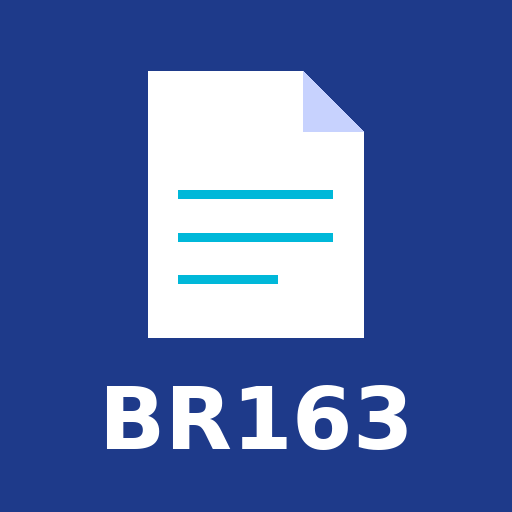
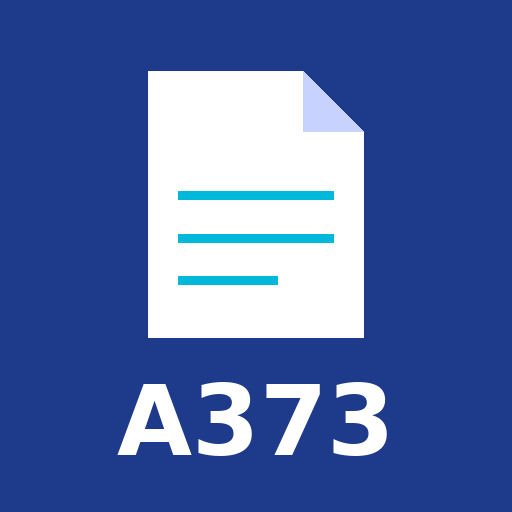
Add files via upload

Changed region(s): [[0.1875, 0.7188, 0.8125, 0.9062], [0.3438, 0.5312, 0.5312, 0.5625]]

diff --git a/sw.js b/sw.js
@@ -1,8 +1,8 @@
 // Service worker — Consulta de Documentos BR163/MS
 // Mantém uma cópia do site e da lista para uso sem internet.
 // Sempre tenta a internet primeiro; sem conexão, usa a cópia guardada.
-const VERSAO = 'projetos-v2-2026-11-13';
-const ARQUIVOS_BASE = ['./', './index.html', './documentos.json', './manifest.json', './Aterpa.png', './icon-192.png', './icon-512.png'];
+const VERSAO = 'projetos-v2-2026-11-13b';
+const ARQUIVOS_BASE = ['./', './index.html', './documentos.json', './manifest.json', './Aterpa.png', './icon-192.png', './icon-512.png', './icon-maskable-512.png'];
 const FONTES = ['fonts.googleapis.com', 'fonts.gstatic.com'];
 
 self.addEventListener('install', event => {

diff --git a/index.html b/index.html
@@ -6,7 +6,7 @@
 <meta name="theme-color" content="#ffffff">
 <meta name="apple-mobile-web-app-capable" content="yes">
 <meta name="apple-mobile-web-app-status-bar-style" content="black-translucent">
-<meta name="apple-mobile-web-app-title" content="Projetos BR163/MS">
+<meta name="apple-mobile-web-app-title" content="Projetos 373">
 <meta name="description" content="Consulta de documentos de projetos da BR163/MS">
 <link rel="manifest" href="manifest.json">
 <link rel="apple-touch-icon" href="icon-192.png">
